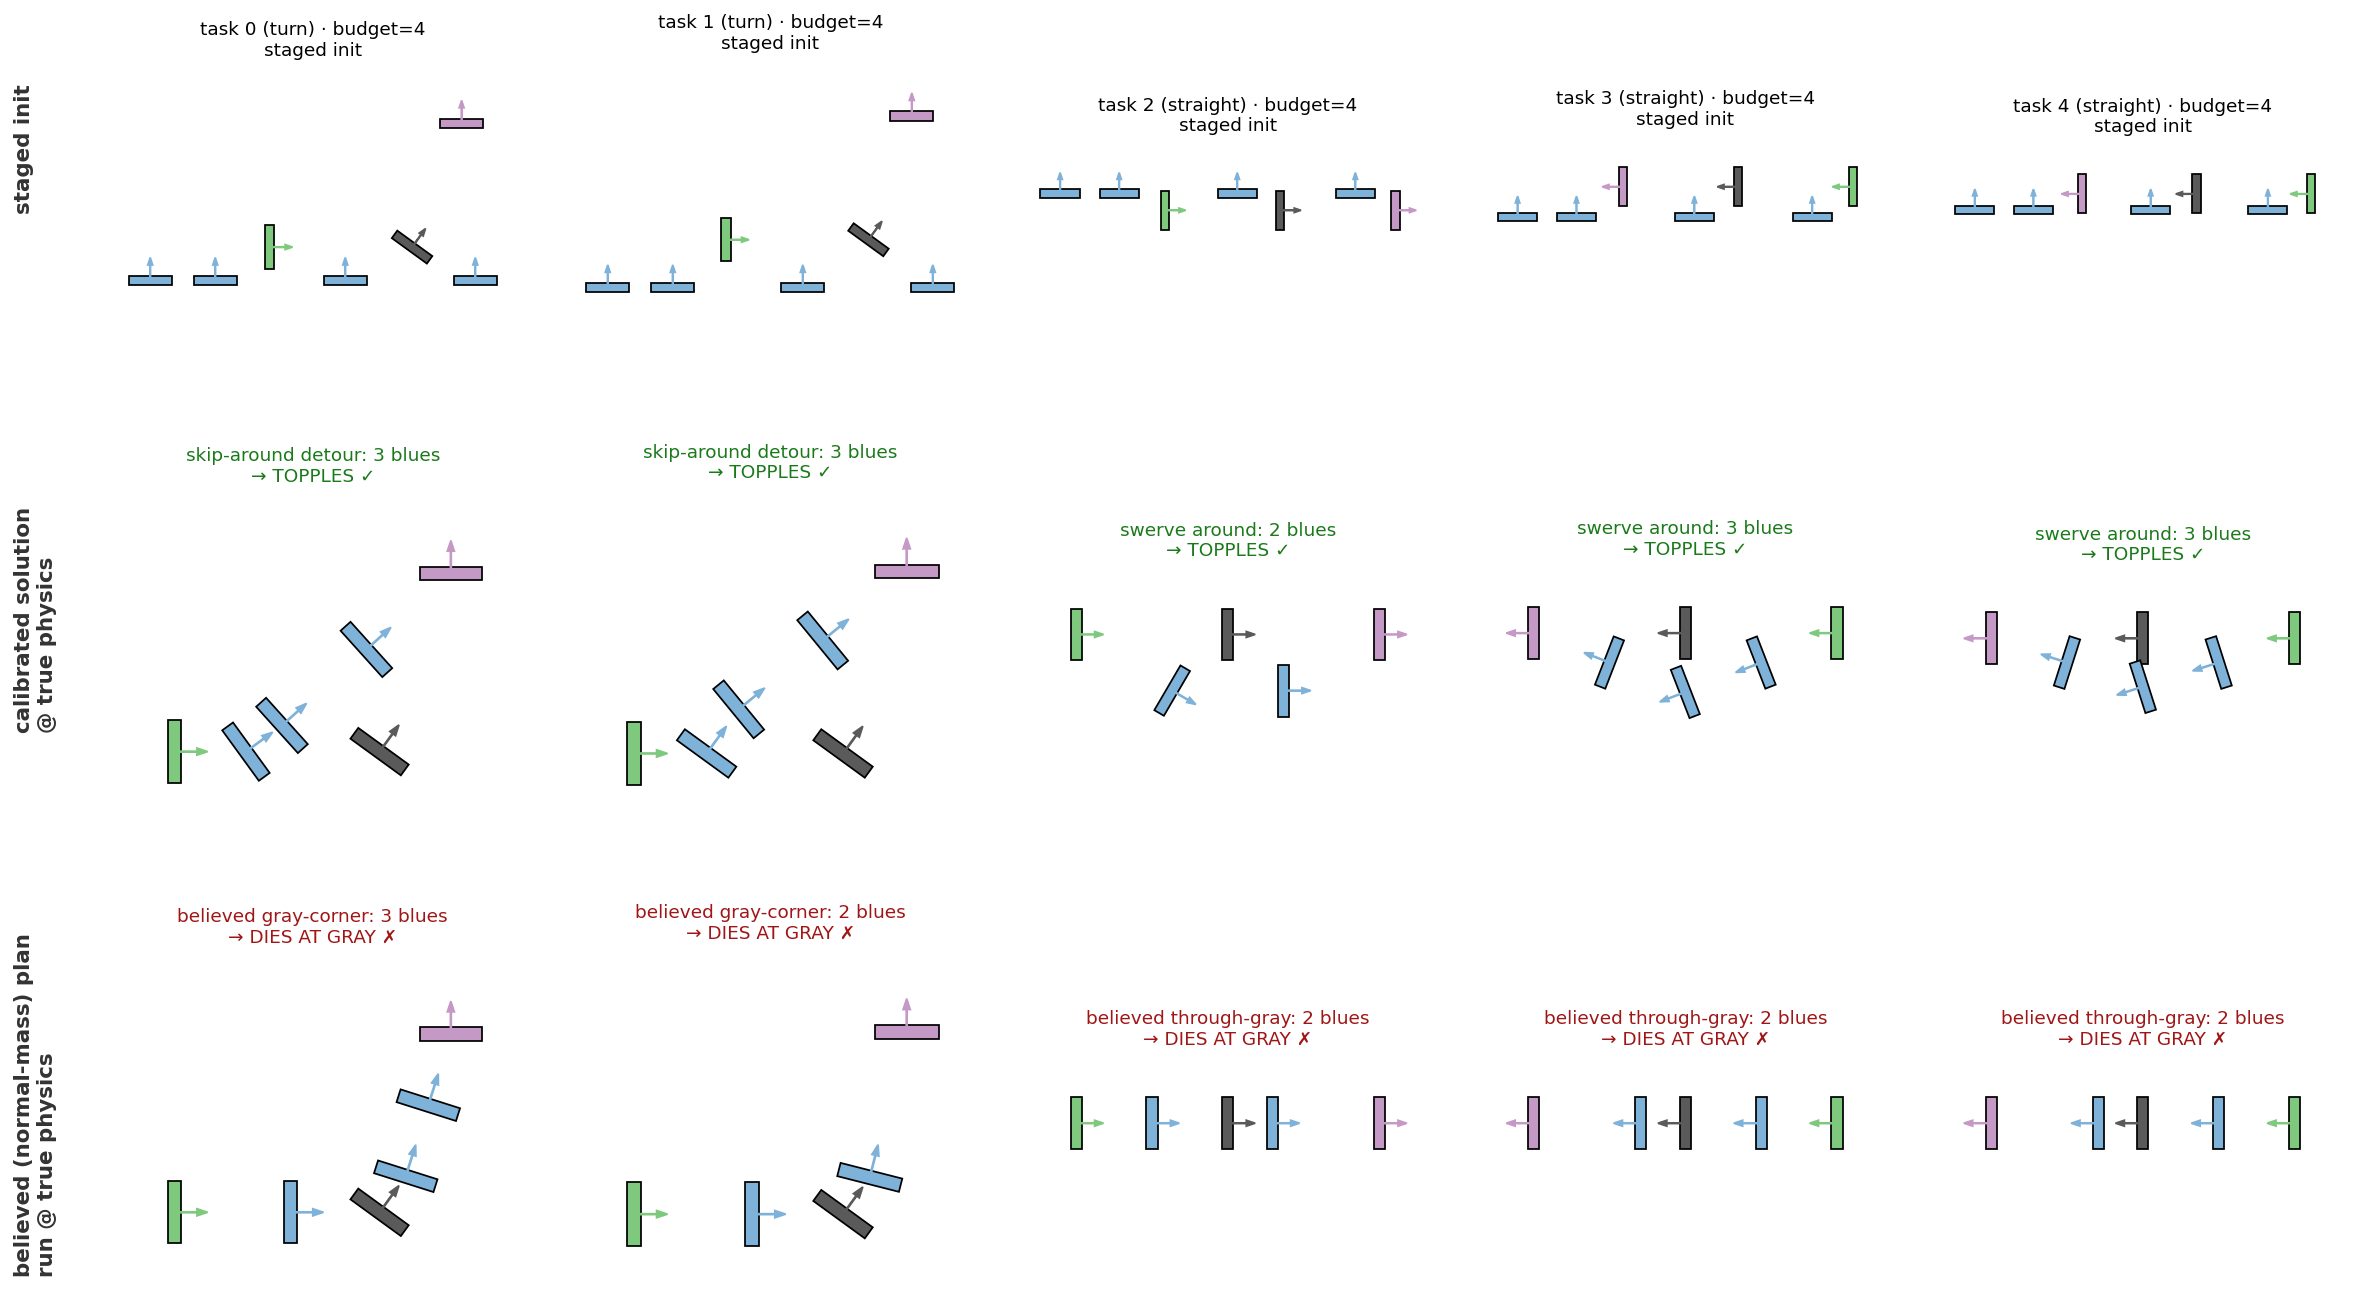
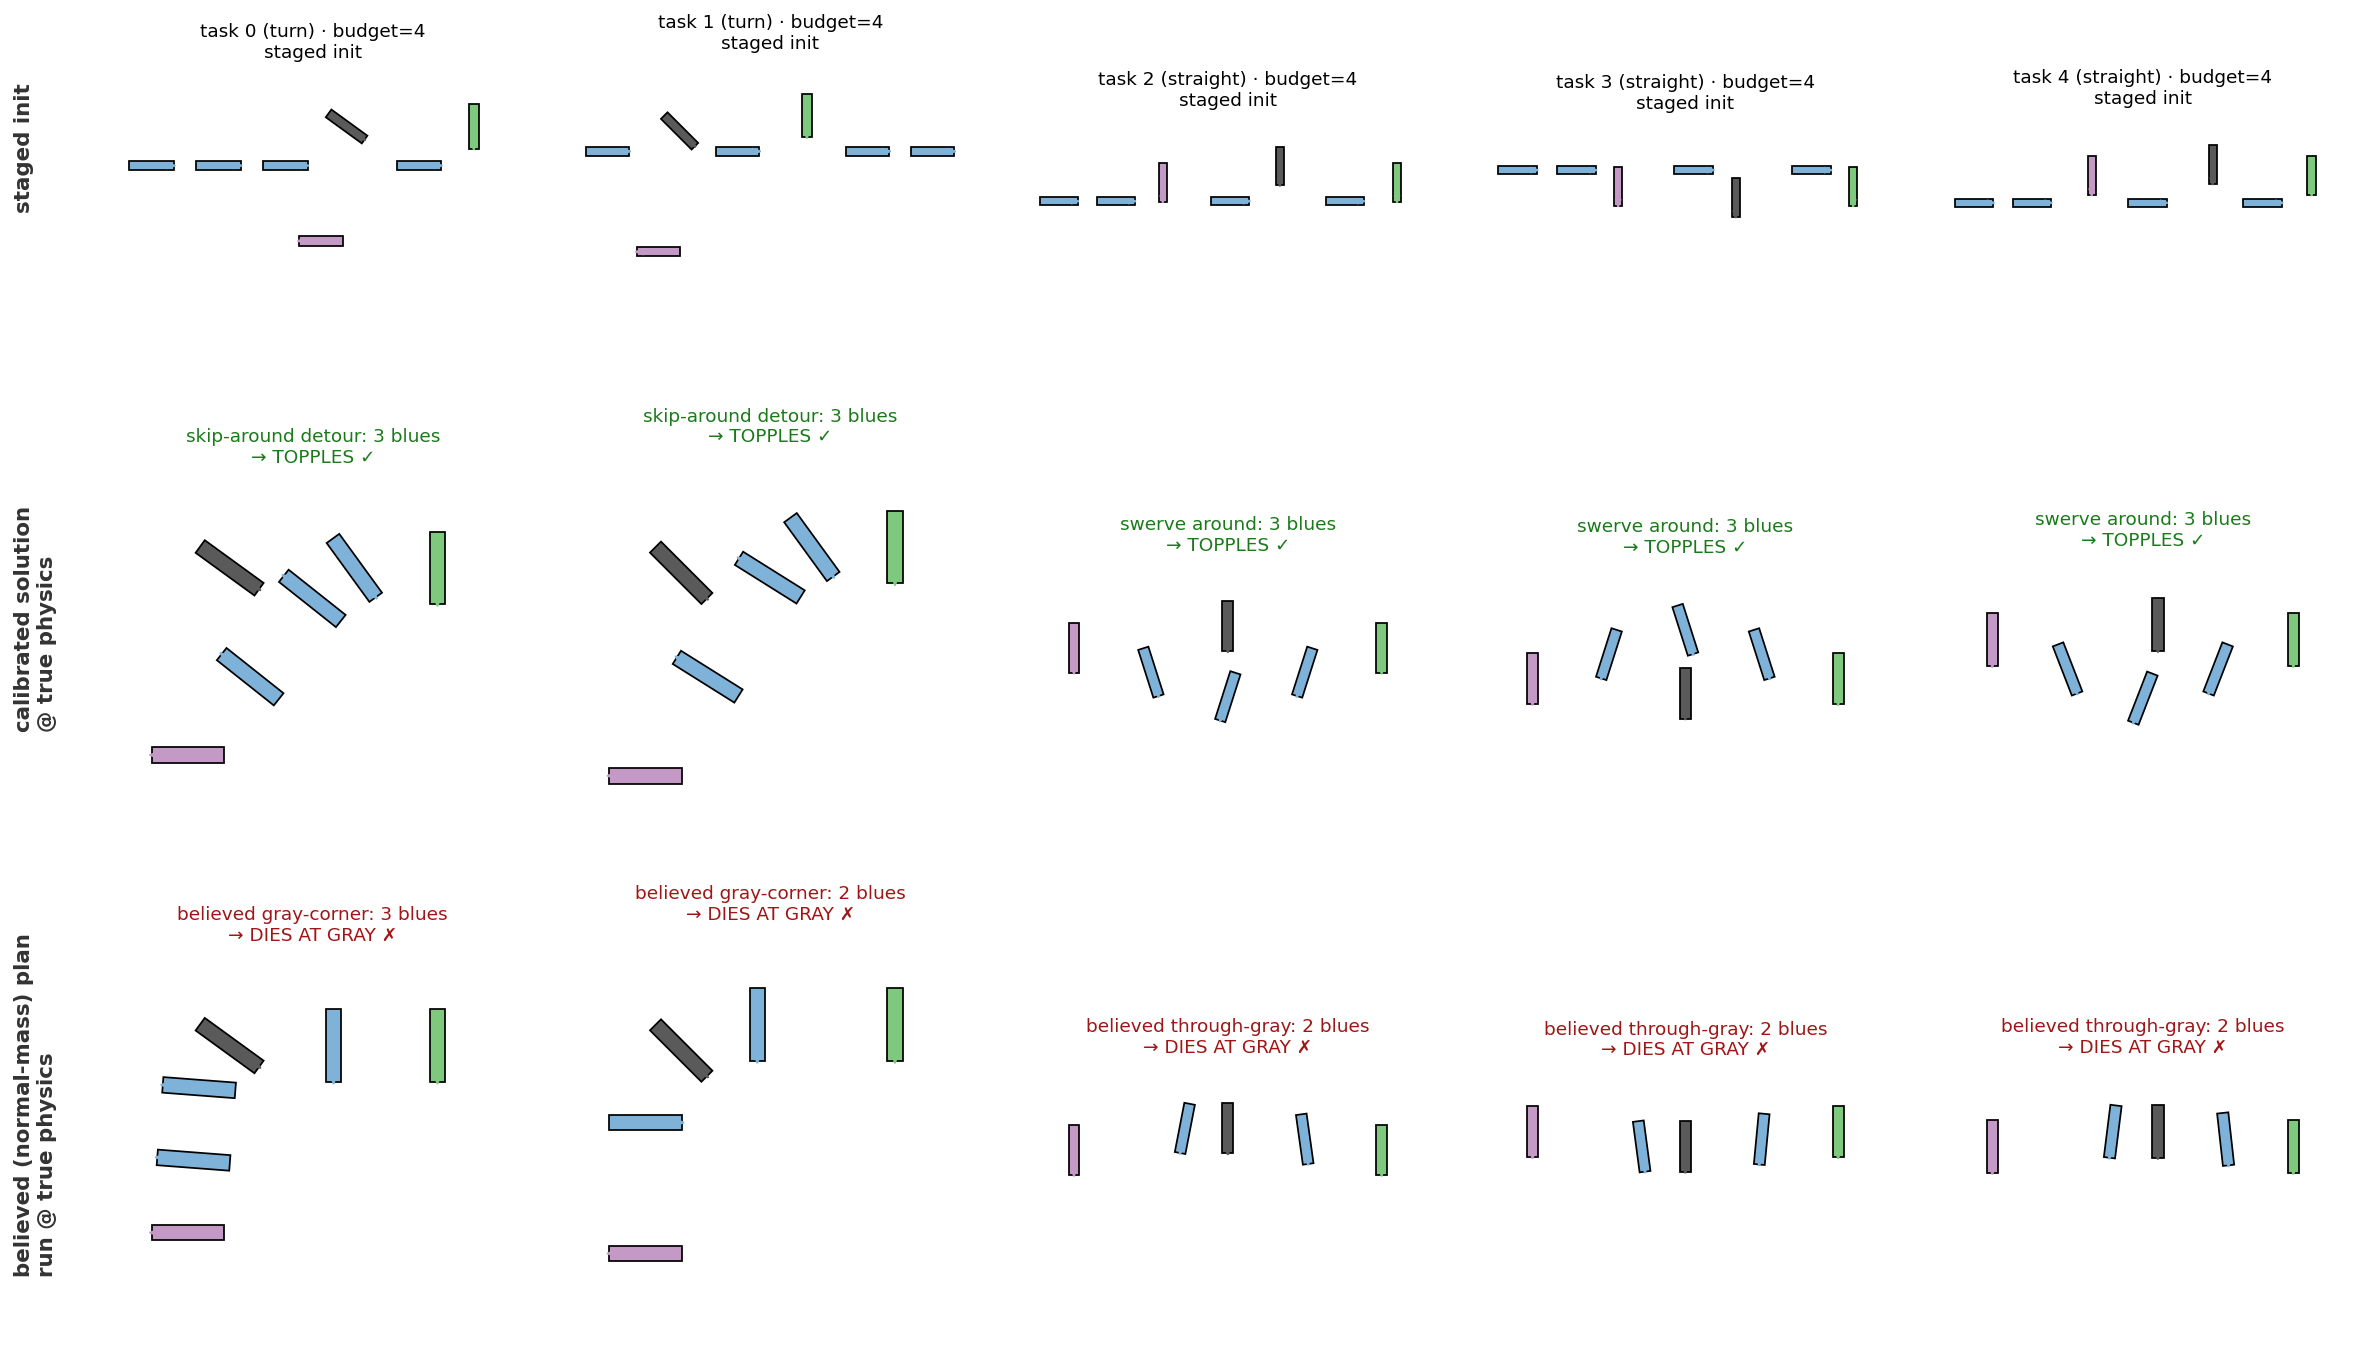
pybullet_domino: heavy tasks ready at true friction 0.5 - easier turns, off-line gray
Turn variant: legs sample new shortened heavy bands (entry 0.22-0.28,
exit 0.16-0.22) and the detour certificate now demands one blue of
slack (scan budget capped at num_blues - 1), so no exact-budget tasks
ship. Straight variant: the gray samples a 0.02-0.03 signed lateral
offset off the start-target line - the believed lure becomes a shallow
dogleg through it and the true swerve is gentler on the far side; the
dogleg/swerve probe memo keys gain the gray's signed perpendicular
offset (lengths alone alias off-line grays at second order while the
bend angle changes at first order).

Figure script un-bit-rotted (renamed _believed_physics contextmanager,
drop the stale domino_true_friction 0.1 pin so it matches launches) and
the figure regenerated at 0.5: both turn detours 3 blues, shallower
straight swerves, every believed lure still dies at the gray. The
domino_heavy env entry is parked per the all.yaml convention and the
new exp_domino_heavy.yaml launcher un-skips it with
agent_oracle_hybrid_sim; launch task caches prewarmed for seeds 0-2.

diff --git a/predicators/envs/pybullet_domino/task_generators/min_block_generation.py b/predicators/envs/pybullet_domino/task_generators/min_block_generation.py
@@ -70,10 +70,20 @@ def _domino_code_digest() -> str:
 # scripts/domino_debug/probe_min_block_bands.py when the friction pair moves).
 _DEFAULT_TURN_ENTRY_BAND = (0.26, 0.34)
 _DEFAULT_TURN_EXIT_BAND = (0.18, 0.26)
-# Heavy straight variant: start->target span, and the gray block's fraction
-# along that span.
+# Heavy turn variant: shorter legs than the plain-turn defaults, so the
+# skip-around detour fits in num_blues - 1 (one blue of slack); the
+# maker additionally REQUIRES that slack, so the bands only control how
+# often a sample certifies, not the shipped difficulty.
+_HEAVY_TURN_ENTRY_BAND = (0.22, 0.28)
+_HEAVY_TURN_EXIT_BAND = (0.16, 0.22)
+# Heavy straight variant: start->target span, the gray block's fraction
+# along that span, and its small signed perpendicular offset OFF the
+# line (sign sampled). An off-line gray still lures the believed
+# planner (the dogleg family bends through it) but shrinks the swerve
+# depth needed on the far side, so the true solution's arc is gentler.
 _HEAVY_SPAN_BAND = (0.36, 0.44)
 _HEAVY_GRAY_FRACTIONS = (0.45, 0.5, 0.55)
+_HEAVY_GRAY_LATERAL_OFFSETS = (0.02, 0.03)
 
 
 def _early_stop_bar(k_star: float) -> float:
@@ -848,14 +858,15 @@ def _make_heavy_straight_task(
         rng: np.random.Generator) -> Optional[EnvironmentTask]:
     """Build one straight-variant heavy-block task, or None.
 
-    Natural alignment: start, GRAY block, and target sit on ONE line,
-    all facing along it. The believed physics (normal gray mass, see the
-    env init / ``heavy_block_mass`` override) makes the cheapest plan a
-    straight chain THROUGH the gray -- a free link, head-on knocks
-    everywhere. At the true mass the chain dies against the gray, and
-    the real solution is a half-circle swerve around it (the
+    Natural alignment: start and target sit on one line, and the GRAY
+    block stands a small sampled offset OFF that line
+    (``_HEAVY_GRAY_LATERAL_OFFSETS``), all facing along it. The believed
+    physics (normal gray mass, see the env init / ``heavy_block_mass``
+    override) makes the cheapest plan a shallow dogleg THROUGH the gray
+    -- a free link. At the true mass the chain dies against the gray,
+    and the real solution is a half-circle swerve around it (the
     ``swerve_k_star`` family: aligned at both ends, bulging sideways to
-    clear the block).
+    clear the block - gentler on the side the gray leans away from).
 
     Certificate (lure probes at the canonical anchor, memoized):
     1. believed straight-through exists (k_bel blues);
@@ -871,18 +882,24 @@ def _make_heavy_straight_task(
         return None
     span = round(float(rng.uniform(*_HEAVY_SPAN_BAND)), 2)
     h_frac = float(rng.choice(_HEAVY_GRAY_FRACTIONS))
+    h_off = float(rng.choice(_HEAVY_GRAY_LATERAL_OFFSETS)) * float(
+        rng.choice([-1.0, 1.0]))
     num_blues = min(CFG.domino_min_block_num_blues, len(comp.dominos) - 3)
     ax, ay = _PROBE_ANCHOR
+    # Canonical line runs along +x (start yaw pi/2), so the gray's
+    # small lateral offset is along +-y; it keeps facing the line.
     c_start = (ax, ay, np.pi / 2)
-    c_heavy = (ax + h_frac * span, ay, np.pi / 2)
+    c_heavy = (ax + h_frac * span, ay + h_off, np.pi / 2)
     c_target = (ax + span, ay, np.pi / 2)
-    # 1) The believed straight-through must exist (the lure).
+    # 1) The believed straight-through must exist (the lure): with the
+    # off-line gray this is a shallow dogleg bending through it.
     with _believed_physics(env, believed_heavy_mass=True):
         k_bel = heavy_dogleg_k_star(env, c_start, c_target, c_heavy, num_blues)
     if k_bel is None:
         logging.warning(
             "Dropping heavy straight task (no believed straight-through "
-            "within %d blues, span %.2f).", num_blues, span)
+            "within %d blues, span %.2f, gray offset %.2f).", num_blues, span,
+            h_off)
         return None
     # 2) The true straight-through must be dead AT THE BELIEVED COST: a
     # block-minimizing planner only builds believed-cheapest (k_bel)
@@ -906,7 +923,8 @@ def _make_heavy_straight_task(
     if k_star_c is None or k_bel >= k_star_c:
         logging.warning(
             "Dropping heavy straight task (swerve K*=%s vs believed "
-            "k=%d, span %.2f).", k_star_c, k_bel, span)
+            "k=%d, span %.2f, gray offset %.2f).", k_star_c, k_bel, span,
+            h_off)
         return None
     # Place the certified shape; retry poses on placement-local failures.
     staged = None
@@ -919,7 +937,10 @@ def _make_heavy_straight_task(
             sx = float(rng.uniform(env.x_lb + span + 0.03, comp.domino_x_ub))
         sy = float(rng.uniform(comp.domino_y_lb, comp.domino_y_ub))
         u_vec = np.array([np.sin(syaw), np.cos(syaw)])
-        h_pt = np.array([sx, sy]) + h_frac * span * u_vec
+        # Same perpendicular convention as the canonical frame: for the
+        # canonical u = (1, 0) this perp is (0, 1), i.e. +y = +h_off.
+        perp_vec = np.array([-u_vec[1], u_vec[0]])
+        h_pt = np.array([sx, sy]) + h_frac * span * u_vec + h_off * perp_vec
         t_pt = np.array([sx, sy]) + span * u_vec
         # The swerve needs sideways room on at least one side.
         if not all(env.x_lb < pt[0] < env.x_ub and env.y_lb +
@@ -1088,16 +1109,18 @@ def _make_heavy_turn_task(
 
     Certificate: believed corner blueprint exists with a mid-chain
     corner; the gray-substituted lure still propagates believedly and
-    dies at the true physics; the true detour K* fits the staged blues.
-    K* certifies SOLVABILITY only; the reward budget is the staged
-    blues (see ``_finish_min_block_task``).
+    dies at the true physics; the true detour K* fits the staged blues
+    with at least one blue of SLACK (legs sampled from the shortened
+    ``_HEAVY_TURN_*`` bands so this certifies often). K* certifies
+    SOLVABILITY only; the reward budget is the staged blues (see
+    ``_finish_min_block_task``).
     """
     # pylint: disable=protected-access
     comp = env._domino_component
     if comp is None:
         return None
-    entry = round(float(rng.uniform(*_DEFAULT_TURN_ENTRY_BAND)), 2)
-    exit_leg = round(float(rng.uniform(*_DEFAULT_TURN_EXIT_BAND)), 2)
+    entry = round(float(rng.uniform(*_HEAVY_TURN_ENTRY_BAND)), 2)
+    exit_leg = round(float(rng.uniform(*_HEAVY_TURN_EXIT_BAND)), 2)
     side = float(rng.choice([-1.0, 1.0]))
     num_blues = min(CFG.domino_min_block_num_blues, len(comp.dominos) - 3)
     bp = _believed_corner_blueprint(env, comp, entry, exit_leg, side,
@@ -1210,10 +1233,16 @@ def _make_heavy_turn_task(
         # TWO independent toppling layouts: a task whose only solution
         # is one knife-edge layout can flip under a fresh simulator's
         # contact-solver history and become unsolvable at execution.
+        # The detour must also leave at least ONE blue of slack under
+        # the staged budget (scan capped at num_blues - 1, so the
+        # exact-budget layer is never even probed): an exact-budget
+        # task forces the solver onto a single knife-edge layout
+        # family (2026-07-25 figure: a 4-of-4-blue detour at friction
+        # 0.5 admits zero margin).
         k_true = compute_turn_k_star(env,
                                      start_pose,
                                      target_pose,
-                                     budget=num_blues,
+                                     budget=num_blues - 1,
                                      extra=gray_scene,
                                      min_hits=2)
         if k_true is None or k_true < 1:

diff --git a/predicators/envs/pybullet_domino/task_generators/min_block_utils.py b/predicators/envs/pybullet_domino/task_generators/min_block_utils.py
@@ -722,9 +722,10 @@ def heavy_dogleg_k_star(env: Any,
     """Minimum blues whose dogleg chain THROUGH the heavy (gray) block topples
     the target at the env's CURRENT physics, or None.
 
-    The gray block stands on the start's fall line and acts as a free
-    bend link: k1 blues run evenly from the start to the gray, the chain
-    bends at the gray, and k2 = k - k1 blues run from just past the gray
+    The gray block stands on (or slightly off) the start's fall line and
+    acts as a free bend link: k1 blues run evenly from the start to the
+    gray, the chain bends at the gray, and k2 = k - k1 blues run from
+    just past the gray
     (first exit gap swept over ``_DOGLEG_EXIT_GAPS``, the rest evenly to
     the target). ALL splits are tried, so the result is the best cost a
     planner could commit to within this natural family. Probed at
@@ -761,8 +762,17 @@ def heavy_dogleg_k_star(env: Any,
     yaw1 = geometry.heading_yaw(d1_vec[0], d1_vec[1])
     h_dir = np.array([np.sin(hyaw), np.cos(hyaw)])
     bend = geometry.wrap_angle(hyaw - syaw)
+    # Signed perpendicular offset of the gray from the start->target
+    # line: a 2-3 cm off-line gray changes len1/len2 only at second
+    # order (sub-bucket) yet bends the dogleg by ~10 degrees, so the
+    # lengths alone would alias physically different lures.
+    st_vec = t_pt - s_pt
+    st_len = float(np.linalg.norm(st_vec))
+    h_perp = 0.0 if st_len <= 0 else float(
+        (st_vec[0] * (h_pt[1] - s_pt[1]) - st_vec[1] *
+         (h_pt[0] - s_pt[0])) / st_len)
     memo_key = (round(len1 / _SPAN_BUCKET), round(len2 / _SPAN_BUCKET),
-                round(bend, 2), budget, only_k,
+                round(h_perp / _SPAN_BUCKET), round(bend, 2), budget, only_k,
                 tuple(sorted(comp._physical_param_override.items())))
     if memo_key in _dogleg_probe_memo:
         return _dogleg_probe_memo[memo_key]
@@ -839,10 +849,10 @@ _swerve_probe_memo: Dict[Tuple[Any, ...], Optional[int]] = {}
 
 def _candidate_swerve_layouts(comp: Any, k: int, start_pose: Any,
                               target_pose: Any, heavy_pose: Any) -> Any:
-    """Yield k-blue "half-circle" swerves around a collinear gray block.
+    """Yield k-blue "half-circle" swerves around a near-line gray block.
 
-    The heavy block sits ON the segment from start to target (all three
-    aligned with the line). Each candidate follows the heading profile
+    The heavy block sits on (or slightly off) the segment from start to
+    target, facing along it. Each candidate follows the heading profile
     m_i = phi * sin(2*pi*(i+0.5)/(k+1)): aligned with the line at both
     ends (head-on first knock, head-on target hit), bulging sideways
     mid-path to clear the gray block, with net lateral displacement
@@ -898,7 +908,7 @@ def swerve_k_star(env: Any,
                   heavy_pose: Any,
                   budget: int,
                   min_hits: int = 1) -> Optional[int]:
-    """Minimum blues whose half-circle swerve AROUND the collinear gray block
+    """Minimum blues whose half-circle swerve AROUND the near-line gray block
     topples the target at the env's CURRENT physics, or None.
 
     The constructive counterpart of ``heavy_dogleg_k_star``'s straight
@@ -918,11 +928,18 @@ def swerve_k_star(env: Any,
     sx, sy, syaw = (float(v) for v in start_pose)
     tx, ty, _ = (float(v) for v in target_pose)
     hx, hy, _ = (float(v) for v in heavy_pose)
+    # Signed perpendicular offset of the gray from the start->target
+    # line (see ``heavy_dogleg_k_star``): distances alone alias
+    # off-line grays, which need different swerve depths per side.
+    st_len = float(np.hypot(tx - sx, ty - sy))
+    h_perp = 0.0 if st_len <= 0 else float(
+        ((tx - sx) * (hy - sy) - (ty - sy) * (hx - sx)) / st_len)
     memo_key = (round(sx / _SPAN_BUCKET), round(sy / _SPAN_BUCKET),
                 round(syaw,
                       2), round(np.hypot(tx - sx, ty - sy) / _SPAN_BUCKET),
-                round(np.hypot(hx - sx, hy - sy) / _SPAN_BUCKET), budget,
-                min_hits, tuple(sorted(comp._physical_param_override.items())))
+                round(np.hypot(hx - sx, hy - sy) / _SPAN_BUCKET),
+                round(h_perp / _SPAN_BUCKET), budget, min_hits,
+                tuple(sorted(comp._physical_param_override.items())))
     if memo_key in _swerve_probe_memo:
         return _swerve_probe_memo[memo_key]
     push_opt = _get_push_option(env)

diff --git a/docs/envs/domino_min_block/make_heavy_task_examples_fig.py b/docs/envs/domino_min_block/make_heavy_task_examples_fig.py
@@ -35,7 +35,7 @@ from predicators.envs import create_new_env
 from predicators.envs.pybullet_domino.task_generators import \
     min_block_utils as mbu
 from predicators.envs.pybullet_domino.task_generators.min_block_generation import \
-    _with_believed_physics
+    _believed_physics
 from predicators.settings import CFG
 
 utils.reset_config({
@@ -48,7 +48,8 @@ utils.reset_config({
     'pybullet_ik_validate': False,
     'pybullet_camera_height': 900,
     'pybullet_camera_width': 900,
-    # envs/all.yaml domino_heavy (mass-only mismatch: no planning friction)
+    # envs/all.yaml domino_heavy (mass-only mismatch: no planning friction,
+    # true friction stays at the settings default, 0.5 - matching launches)
     'max_initial_demos': 0,
     'excluded_objects_in_state_str': "loc,rot,angle,direction",
     'horizon': 500,
@@ -62,7 +63,6 @@ utils.reset_config({
     'pybullet_birrt_extend_num_interp': 20,
     'pybullet_birrt_path_subsample_ratio': 2,
     'domino_heavy_block_tasks': True,
-    'domino_true_friction': 0.1,
     'domino_min_block_num_blues': 4,
 })
 env = create_new_env('pybullet_domino', do_cache=False, use_gui=False)
@@ -235,7 +235,8 @@ def believed_straight(start, target, gray, s_pose, t_pose, h_pose, k_max):
                         return od, k
         return None
 
-    return _with_believed_physics(env, _probe)
+    with _believed_physics(env, believed_heavy_mass=True):
+        return _probe()
 
 
 def believed_gray_corner(start, target, gray, s_pose, t_pose, h_pose, k_max):
@@ -259,7 +260,8 @@ def believed_gray_corner(start, target, gray, s_pose, t_pose, h_pose, k_max):
                     return lure, k - 1
         return None
 
-    return _with_believed_physics(env, _probe)
+    with _believed_physics(env, believed_heavy_mass=True):
+        return _probe()
 
 
 tasks = env.get_test_tasks()
